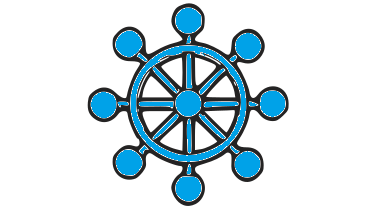
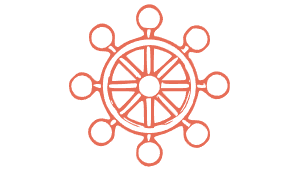
[fe]feat: add options for creating business or client account
Added new options for users to create either a business or client account. Updated the registration form text and styles to reflect these choices.

Changed region(s): [[0.21, 0.0, 0.78, 1.0]]

diff --git a/src/components/forms/sing-up/user-type-card.tsx b/src/components/forms/sing-up/user-type-card.tsx
@@ -1,5 +1,6 @@
 'use client';
 import { Card, CardContent, CardDescription } from '@/components/ui/card';
+import { Input } from '@/components/ui/input';
 import { Label } from '@/components/ui/label';
 import { cn } from '@/lib/utils';
 import { UserIcon } from 'lucide-react';
@@ -28,7 +29,7 @@ const UserTypeCard = ({
       <Card
         className={cn(
           'w-full cursor-pointer',
-          userType == value && 'border-brownish',
+          userType == value && 'border-midnight',
         )}
       >
         <CardContent className="flex justify-between p-2">
@@ -36,32 +37,52 @@ const UserTypeCard = ({
             <Card
               className={cn(
                 'flex justify-center p-3',
-                userType == value && 'border-redishbrown',
+                userType == value && 'border-midnight',
               )}
             >
               <UserIcon
                 size={30}
                 className={cn(
-                  userType == value ? 'text-salmon' : 'text-midnight',
+                  userType == value ? 'text-salmon' : 'text-gray-600',
                 )}
               />
             </Card>
             <div className="">
               <CardDescription
                 className={cn(
-                  userType == value ? 'text-sienna font-bold' : 'text-midnight',
+                  userType == value ? 'font-bold text-sienna' : 'text-iridium',
                 )}
               >
                 {title}
               </CardDescription>
               <CardDescription
                 className={cn(
-                  userType == value ? 'text-chocolate font-light' : 'text-midnight',
+                  userType == value
+                    ? 'font-light text-chocolate'
+                    : 'text-iridium',
                 )}
               >
                 {text}
               </CardDescription>
             </div>
+          </div>
+          <div className="relative">
+            <Input
+              {...register('type', {
+                onChange: (e) => setUserType(e.target.value),
+              })}
+              value={value}
+              id={value}
+              type="radio"
+              className="absolute inset-0 h-full w-full cursor-pointer opacity-0"
+            />
+            <div
+
+              className={cn(
+                'h-4 w-4 rounded-full border border-gray-400',
+                userType == value ? 'bg-rose-500' : 'bg-transparent',
+              )}
+            ></div>
           </div>
         </CardContent>
       </Card>

diff --git a/tailwind.config.ts b/tailwind.config.ts
@@ -41,11 +41,18 @@ const config: Config = {
         palegold: '#E6BE8A',
         goldenbrown: '#e6be8a',
         tradbrown: '#964B00',
-        sienna: "#A0522D",
-        saddelbrown: "#8B4513",
-        chocolate: "#D2691E",
+        sienna: '#A0522D',
+        saddelbrown: '#8B4513',
+        chocolate: '#D2691E',
         iridium: '#3F3F3F',
         orange: '#FFA947',
+        tikodark: '#034c52',
+        tikomid: '#015c63',
+        tikolight: '#017075',
+        salmondark: '#f48D79',
+        salmonmid: '#f4a898',
+        salmonlight: '#ffc0b4',
+        purplebur:'#630947',
         salmon: '#E76D57',
         blackish: '#201315',
         carafe: '#56382D',

diff --git a/src/components/forms/sing-up/type-selection-form.tsx b/src/components/forms/sing-up/type-selection-form.tsx
@@ -22,8 +22,16 @@ const TypeSelectionForm = ({ register, userType, setUserType }: Props) => {
         setUserType={setUserType}
         userType={userType}
         value="owner"
-        title="I am a Property Owner"
-        text="I am looking to rent out my property"
+        title="I am buisness manager "
+        text="Manage company setting "
+      ></UserTypeCard>
+      <UserTypeCard
+        register={register}
+        setUserType={setUserType}
+        userType={userType}
+        value="client"
+        title="I am client"
+        text="Looking to learn about buisness tools"
       ></UserTypeCard>
     </>
   );

diff --git a/src/app/auth/layout.tsx b/src/app/auth/layout.tsx
@@ -16,7 +16,7 @@ const LayoutProps = async ({ children }: Props) => {
     <div className="flex h-screen w-full justify-center">
       <div className="ld:w-full flex w-[600px] flex-col items-start p-6">
         <Image
-          src="/images/makingna.png"
+          src="/images/salamonMakingna.png"
           alt="LOGO"
           sizes="100vw"
           style={{
